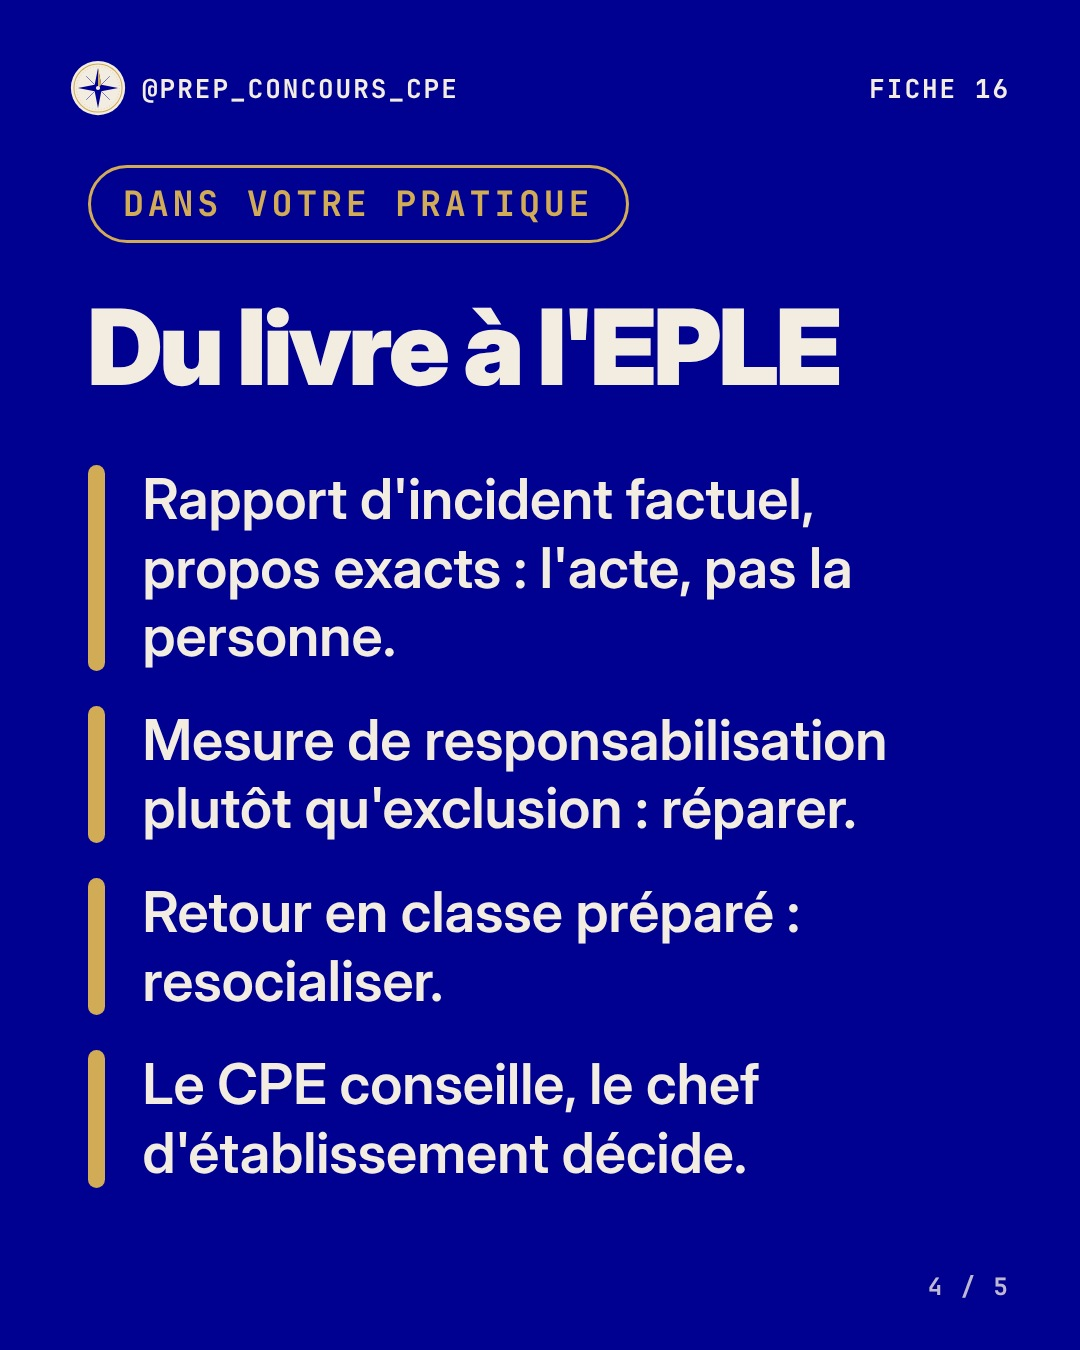
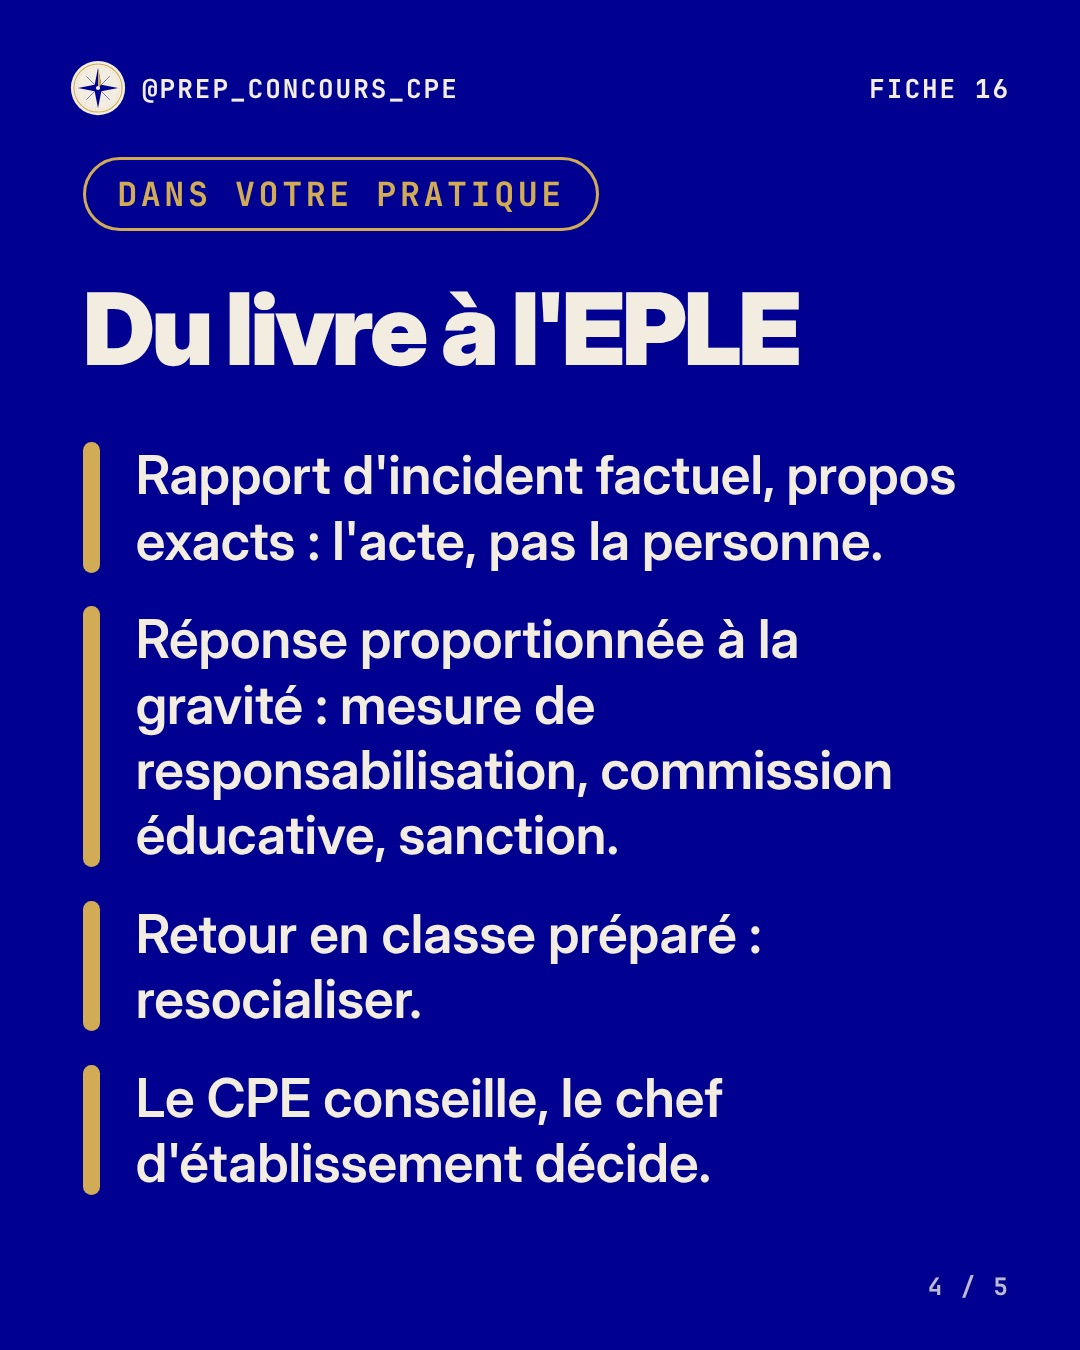
Prairat : réponse proportionnée à l'incident
Claude-Session: https://claude.ai/code/session_01FvtqKjsNo

Changed region(s): [[0.0611, 0.3111, 0.8861, 0.9022], [0.0611, 0.2178, 0.7944, 0.3111], [0.0611, 0.0933, 0.5806, 0.1867]]

diff --git a/posts/biblio-prairat/LEGENDE.md b/posts/biblio-prairat/LEGENDE.md
@@ -1,3 +1,3 @@
-Un apport de la bibliographie, relié à la pratique : Eirick Prairat, La sanction en éducation (PUF, 2021). La sanction est éducative si elle a un sens : trois finalités (politique, éthique, psychologique) et quatre principes (signification, objectivation, privation, resocialisation). En EPLE, cela donne un rapport d'incident factuel, une mesure de responsabilisation plutôt qu'une exclusion, un retour en classe préparé. À retrouver dans la fiche 16 de Prep'CPE. Et toi, comment expliquerais-tu la différence entre punir et sanctionner ? Dis-le en commentaire. Lien en bio.
+Un apport de la bibliographie, relié à la pratique : Eirick Prairat, La sanction en éducation (PUF, 2021). La sanction est éducative si elle a un sens : trois finalités (politique, éthique, psychologique) et quatre principes (signification, objectivation, privation, resocialisation). En EPLE, cela donne un rapport d'incident factuel, une réponse proportionnée à la gravité des faits (mesure de responsabilisation, commission éducative ou sanction selon l'incident), un retour en classe préparé. À retrouver dans la fiche 16 de Prep'CPE. Et toi, comment expliquerais-tu la différence entre punir et sanctionner ? Dis-le en commentaire. Lien en bio.
 
 #concourscpe #cpe2027 #prepaconcours #conseillerprincipaldeducation #viescolaire #sanction #prairat
